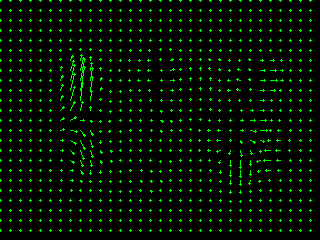
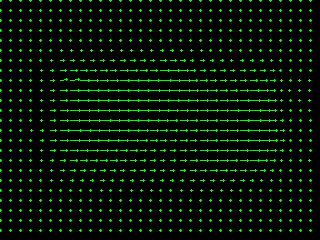
ps4. Tuning part 4.

diff --git a/code/PS4/ps04/experiment.py b/code/PS4/ps04/experiment.py
@@ -260,7 +260,8 @@ def part_4a():
     border_mode = cv2.BORDER_REFLECT101  # You may try different values
 
     u10, v10 = ps4.hierarchical_lk(shift_0, shift_r10, levels, k_size, k_type,
-                                   sigma, interpolation, border_mode)
+                                   sigma, interpolation, border_mode,
+                                   gauss_k_size=k_size, gauss_sigma_x=24, gauss_sigma_y=1)
 
     u_v = quiver(u10, v10, scale=1.5, stride=10)
     cv2.imwrite(os.path.join(output_dir, "ps4-4-a-1.png"), u_v)
@@ -268,22 +269,24 @@ def part_4a():
     # You may want to try different parameters for the remaining function
     # calls.
     levels = 2
-    k_size = 49
+    k_size = 31
     k_type = "gaussian"
-    sigma = 9
+    sigma = 30
     u20, v20 = ps4.hierarchical_lk(shift_0, shift_r20, levels, k_size, k_type,
-                                   sigma, interpolation, border_mode)
+                                   sigma, interpolation, border_mode,
+                                   gauss_k_size=k_size, gauss_sigma_x=24, gauss_sigma_y=1)
 
-    u_v = quiver(u20, v20, scale=1.5, stride=10)
+    u_v = quiver(u20, v20, scale=0.5, stride=10)
     cv2.imwrite(os.path.join(output_dir, "ps4-4-a-2.png"), u_v)
 
     levels = 3
-    k_size = 29
+    k_size = 67
     k_type = "gaussian"
-    sigma = 28
+    sigma = 13
     u40, v40 = ps4.hierarchical_lk(shift_0, shift_r40, levels, k_size, k_type,
-                                   sigma, interpolation, border_mode)
-    u_v = quiver(u40, v40, scale=1.5, stride=10)
+                                   sigma, interpolation, border_mode,
+                                   gauss_k_size=17, gauss_sigma_x=14, gauss_sigma_y=1)
+    u_v = quiver(u40, v40, scale=0.6, stride=10)
     cv2.imwrite(os.path.join(output_dir, "ps4-4-a-3.png"), u_v)
 
 
@@ -293,17 +296,18 @@ def part_4b():
     urban_img_02 = cv2.imread(
         os.path.join(input_dir, 'Urban2', 'urban02.png'), 0) / 255.
 
-    levels = 4
+    levels = 5
     k_size = 51
     k_type = "gaussian"
-    sigma = 30
+    sigma = 11
     interpolation = cv2.INTER_CUBIC  # You may try different values
     border_mode = cv2.BORDER_REFLECT101  # You may try different values
 
     u, v = ps4.hierarchical_lk(urban_img_01, urban_img_02, levels, k_size,
-                               k_type, sigma, interpolation, border_mode)
+                               k_type, sigma, interpolation, border_mode,
+                               gauss_k_size=k_size, gauss_sigma_x=6, gauss_sigma_y=2)
 
-    u_v = quiver(u, v, scale=1, stride=10)
+    u_v = quiver(u, v, scale=0.5, stride=10)
     cv2.imwrite(os.path.join(output_dir, "ps4-4-b-1.png"), u_v)
 
     interpolation = cv2.INTER_CUBIC  # You may try different values
@@ -443,13 +447,13 @@ def part_6():
 
 
 if __name__ == '__main__':
-    part_1a()
-    part_1b()
-    part_2()
-    part_3a_1()
-    part_3a_2()
-    part_4a()
+    # part_1a()
+    # part_1b()
+    # part_2()
+    # part_3a_1()
+    # part_3a_2()
+    # part_4a()
     part_4b()
-    part_5a()
-    part_5b()
+    # part_5a()
+    # part_5b()
     # part_6()

diff --git a/code/PS4/ps04/ps4.py b/code/PS4/ps04/ps4.py
@@ -510,9 +510,18 @@ def hierarchical_lk(img_a, img_b, levels, k_size, k_type, sigma, interpolation,
     def draw_image(input):
         input_points = input[0]
         u, v = input_points
-        u_v = quiver(u, v, scale=input[1], stride=input[2])
+        # u_v = quiver(u, v, scale=input[1], stride=input[2])
 
-        return u_v
+        interpolation = cv2.INTER_CUBIC  # You may try different values
+        border_mode = cv2.BORDER_REFLECT101  # You may try different values
+        urban_img_02_warped = warp(img_b, u, v, interpolation,
+                                       border_mode)
+
+        diff_img = img_a - urban_img_02_warped
+        # cv2.imwrite(os.path.join(output_dir, "ps4-4-b-2.png"),
+        #             ps4.normalize_and_scale(diff_img))
+
+        return diff_img
 
     # result = display_trackbar_window(
     #     'find_markers',
